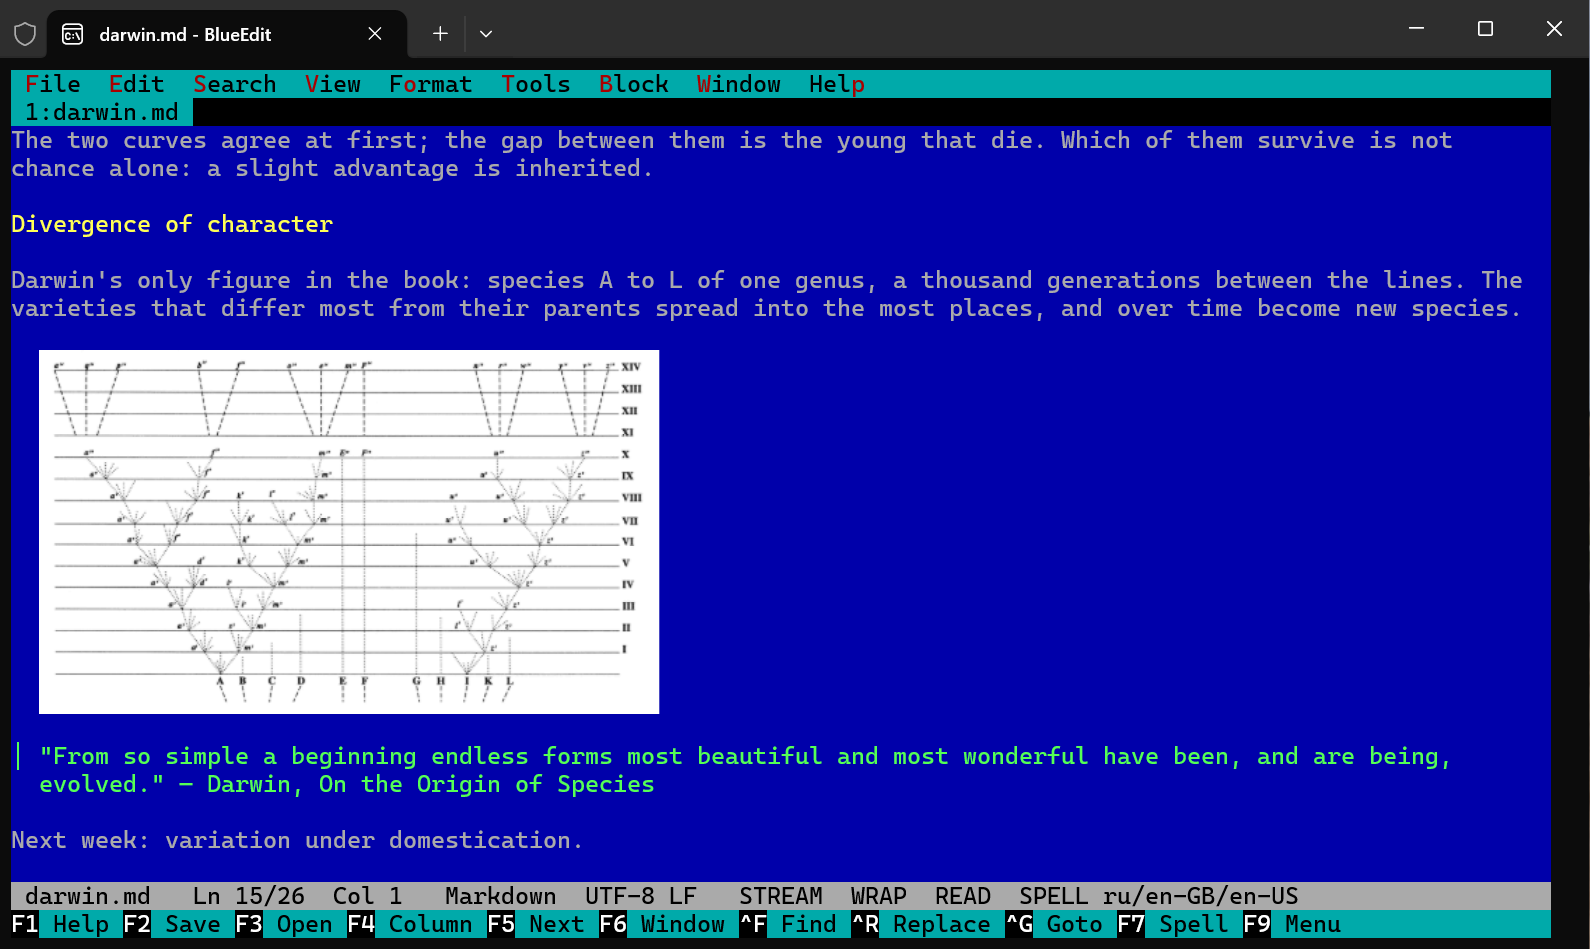
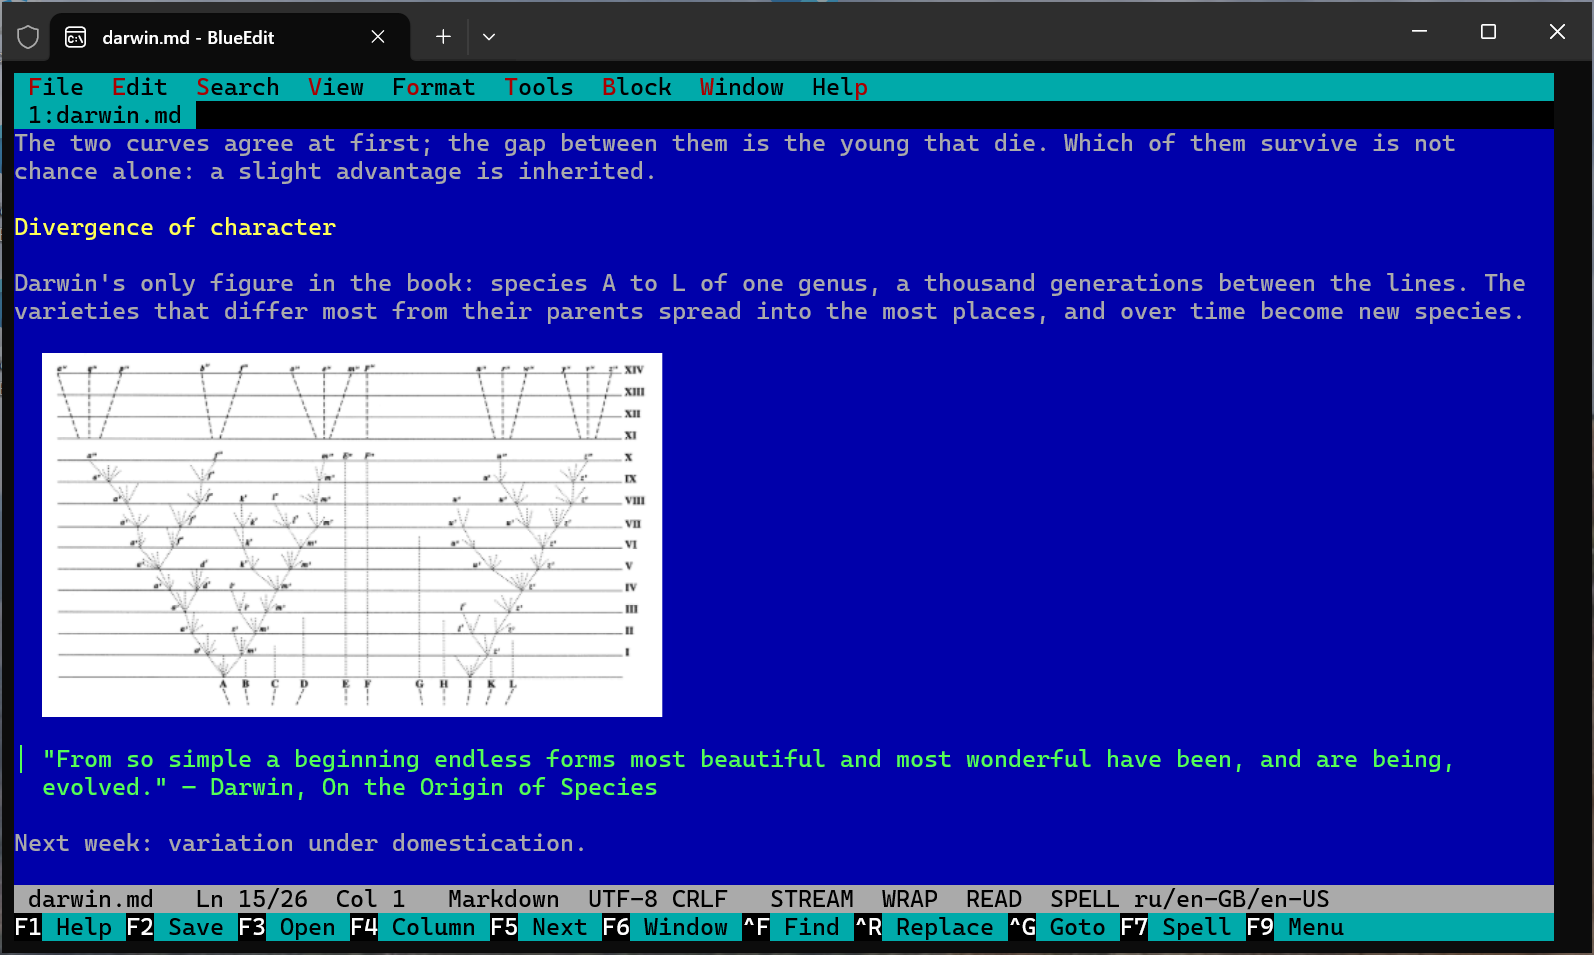
BlueEdit 0.4.6

diff --git a/src/BlueEdit/Settings.cs b/src/BlueEdit/Settings.cs
@@ -20,6 +20,9 @@ sealed class Settings
     public bool AutoWrap { get; set; }
     /// <summary>The words of the text in the status line (Markdown: without markup, formulas and code).</summary>
     public bool WordCount { get; set; }
+    /// <summary>A clock at the right of the menu bar, as in Far: "off", "time" (14:05) or "date" (the system's short
+    /// date and the time).</summary>
+    public string Clock { get; set; } = "time";
     public bool AutoIndent { get; set; } = true;
     /// <summary>Seconds between copies of unsaved documents for recovery after the editor ended unsaved; 0 = none.</summary>
     public int AutoRecoverSeconds { get; set; } = 10;
@@ -41,6 +44,8 @@ sealed class Settings
     public bool FastScroll { get; set; }
     /// <summary>Shortcuts found by the key whatever the layout (#184): Windows key events, elsewhere the kitty protocol.</summary>
     public bool KeyEvents { get; set; } = true;
+    /// <summary>For developers: the status line shows how long the last key took to reach the screen (BLUEEDIT_TIMING=1 too).</summary>
+    public bool ShowTiming { get; set; }
     /// <summary>Esc closes the file (and the editor with the last one) when there is nothing to cancel:
     /// "auto" (default) only when Far Manager opened the editor, "on" always, "off" never.</summary>
     public string EscapeQuits { get; set; } = "auto";
@@ -186,6 +191,11 @@ sealed class Settings
                         break;
                     case "autowrap": if (Bool(v) is bool aw) s.AutoWrap = aw; else Problem("autoWrap: expected true or false"); break;
                     case "wordcount": if (Bool(v) is bool words) s.WordCount = words; else Problem("wordCount: expected true or false"); break;
+                    case "clock":
+                        if (Bool(v) is bool clk) s.Clock = clk ? "time" : "off";
+                        else if (v.ValueKind == JsonValueKind.String && v.GetString()?.ToLowerInvariant() is "off" or "time" or "date") s.Clock = v.GetString()!.ToLowerInvariant();
+                        else Problem("clock: expected \"off\", \"time\" or \"date\"");
+                        break;
                     case "autorecoverseconds":
                         if (v.TryGetInt32(out int ar) && ar is >= 0 and <= 3600) s.AutoRecoverSeconds = ar; else Problem("autoRecoverSeconds: expected a number from 0 to 3600");
                         break;
@@ -243,6 +253,7 @@ sealed class Settings
                         break;
                     case "fastscroll": if (Bool(v) is bool fsc) s.FastScroll = fsc; else Problem("fastScroll: expected true or false"); break;
                     case "keyevents": if (Bool(v) is bool ke) s.KeyEvents = ke; else Problem("keyEvents: expected true or false"); break;
+                    case "showtiming": if (Bool(v) is bool st) s.ShowTiming = st; else Problem("showTiming: expected true or false"); break;
                     case "escapequits":
                         if (Bool(v) is bool eq) s.EscapeQuits = eq ? "on" : "off";
                         else if (v.ValueKind == JsonValueKind.String && v.GetString()?.ToLowerInvariant() is "auto" or "on" or "off") s.EscapeQuits = v.GetString()!.ToLowerInvariant();
@@ -380,6 +391,9 @@ sealed class Settings
         sb.Append(CultureInfo.InvariantCulture, $"    \"autoWrap\": {Lower(s.AutoWrap)},\n\n");
         sb.Append("    // the number of words in the status line (in Markdown without markup, formulas and code; File > Info has all counts)\n");
         sb.Append(CultureInfo.InvariantCulture, $"    \"wordCount\": {Lower(s.WordCount)},\n\n");
+        sb.Append("    // a clock at the right of the menu bar, as in Far: \"off\", \"time\" (14:05) or \"date\" (the system's short\n");
+        sb.Append("    // date and the time)\n");
+        sb.Append(CultureInfo.InvariantCulture, $"    \"clock\": \"{s.Clock}\",\n\n");
         sb.Append("    // Enter keeps the indentation of the line above, one step deeper after a block's opener (Python's \":\",\n");
         sb.Append("    // \"{\" in C#, JavaScript and other brace languages)\n");
         sb.Append(CultureInfo.InvariantCulture, $"    \"autoIndent\": {Lower(s.AutoIndent)},\n\n");
@@ -406,6 +420,9 @@ sealed class Settings
         sb.Append("    // keys read as key events, elsewhere the kitty keyboard protocol where the terminal has it; false: keys read\n");
         sb.Append("    // as text, as before\n");
         sb.Append(CultureInfo.InvariantCulture, $"    \"keyEvents\": {Lower(s.KeyEvents)},\n\n");
+        sb.Append("    // for developers: the status line shows how long the last key took to reach the screen (handler and drawing\n");
+        sb.Append("    // apart); the speed tests read it\n");
+        sb.Append(CultureInfo.InvariantCulture, $"    \"showTiming\": {Lower(s.ShowTiming)},\n\n");
         sb.Append("    // Esc closes the file (the editor with the last one) once there is nothing left to cancel, as in Far's editor:\n");
         sb.Append("    // \"auto\" only when Far Manager opened it, true always, false never\n");
         sb.Append(CultureInfo.InvariantCulture, $"    \"escapeQuits\": {(s.EscapeQuits switch { "on" => "true", "off" => "false", _ => "\"auto\"" })},\n\n");

diff --git a/tests/BlueEdit.Tests/RepoTextTests.cs b/tests/BlueEdit.Tests/RepoTextTests.cs
@@ -1,0 +1,49 @@
+using System.Diagnostics;
+using System.Runtime.CompilerServices;
+using Xunit;
+
+/// <summary>
+/// No control characters in the repository's text files. A scripted edit (a heredoc, a Python one-liner) turned "\b"
+/// into a backspace and "\n" into a line break inside string literals again and again; a rule
+/// written down did not stop it, so this test does: it runs with every check, locally and in CI.
+/// </summary>
+public class RepoTextTests
+{
+    static string Root([CallerFilePath] string file = "") => Path.GetFullPath(Path.Combine(Path.GetDirectoryName(file)!, "..", ".."));
+
+    static readonly HashSet<string> Binary = new(StringComparer.OrdinalIgnoreCase)
+    {
+        ".png", ".jpg", ".jpeg", ".gif", ".bmp", ".webp", ".ico", ".zip", ".gz", ".exe", ".dll", ".ttf", ".otf", ".woff", ".woff2", ".pdf", ".gguf",
+    };
+
+    [Fact]
+    public void Text_files_have_no_control_characters_but_tab_and_line_breaks()
+    {
+        var psi = new ProcessStartInfo("git", "ls-files -z") { WorkingDirectory = Root(), RedirectStandardOutput = true, UseShellExecute = false };
+        using var git = Process.Start(psi)!;
+        var files = git.StandardOutput.ReadToEnd().Split('\0', StringSplitOptions.RemoveEmptyEntries);
+        git.WaitForExit();
+        Assert.NotEmpty(files);
+        var found = new List<string>();
+        foreach (var rel in files)
+        {
+            if (Binary.Contains(Path.GetExtension(rel))) continue;
+            var path = Path.Combine(Root(), rel);
+            if (!File.Exists(path)) continue;                               // deleted in the working tree
+            var bytes = File.ReadAllBytes(path);
+            if (Array.IndexOf(bytes, (byte)0) >= 0) continue;               // a binary file of another kind
+            int line = 1;
+            for (int i = 0; i < bytes.Length; i++)
+            {
+                byte b = bytes[i];
+                if (b == '\n') line++;
+                else if ((b < 0x20 && b != '\t' && b != '\r') || b == 0x7F)
+                {
+                    found.Add($"{rel}:{line}: 0x{b:X2}");
+                    break;
+                }
+            }
+        }
+        Assert.True(found.Count == 0, "control characters (a broken escape in a scripted edit?):\n" + string.Join("\n", found));
+    }
+}

diff --git a/src/BlueEdit/App.Settings.cs b/src/BlueEdit/App.Settings.cs
@@ -20,6 +20,7 @@ sealed partial class App
         editor.WrapProse = s.WrapProse;
         editor.WrapCode = s.WrapCode;
         editor.LineNumbersOn = s.LineNumbers;
+        editor.ShowTiming = s.ShowTiming || Environment.GetEnvironmentVariable("BLUEEDIT_TIMING") == "1";
         editor.DefaultMdView = s.MarkdownView switch { "source" => MdView.Source, "reading" => MdView.Reading, _ => MdView.Live };
         var langs = SpellLanguagesFor(s);
         var provider = !OperatingSystem.IsWindows() || s.SpellProvider == "hunspell" ? "Hunspell"
@@ -259,6 +260,15 @@ sealed partial class App
             : Tf("Images on, but not shown: {0}", ImagesMissing()));
     }
 
+    // View > Clock goes round off, time, date and time; kept in the settings, as the Tools > Settings row is
+    void CycleClock()
+    {
+        var next = settings.Clock switch { "off" => "time", "time" => "date", _ => "off" };
+        Settings.SetValue(Settings.FilePath, "clock", $"\"{next}\"");
+        ReloadSettings();
+        Note(next switch { "time" => T("Clock: the time"), "date" => T("Clock: the date and the time"), _ => T("Clock off") });
+    }
+
     void ToggleAutoWrap()
     {
         Settings.SetValue(Settings.FilePath, "autoWrap", settings.AutoWrap ? "false" : "true");
@@ -308,6 +318,8 @@ sealed partial class App
             ("Completion while typing", "completeWhileTyping", ["code", "always", "off"], ["\"code\"", "\"always\"", "\"off\""], s.CompleteWhileTyping,
                 "The completion list opens by itself after three letters (Ctrl+Space always opens it)."),
             ("Word count", "wordCount", ["on", "off"], ["true", "false"], On(s.WordCount), "The number of words in the status line."),
+            ("Clock", "clock", ["off", "time", "date"], ["\"off\"", "\"time\"", "\"date\""], s.Clock,
+                "At the right of the menu bar, as in Far: the time, or the date and the time."),
             ("Language servers", "lsp", ["on", "off"], ["true", "false"], On(s.Lsp), "Errors and warnings in code, from the language's server."),
             ("Esc closes the file", "escapeQuits", ["auto", "on", "off"], ["\"auto\"", "\"on\"", "\"off\""], s.EscapeQuits,
                 "Auto: only when Far Manager opened the editor, as Far's own editor does. Esc in the settings file always goes back."),

diff --git a/src/BlueEdit/App.Menus.cs b/src/BlueEdit/App.Menus.cs
@@ -118,7 +118,7 @@ sealed partial class App
                 new MenuItem(T("Theme: _DOS blue"), "", () => SetTheme("dos-blue")) { On = () => settings.Theme is not ("dark" or "light"), Choice = true },
                 new MenuItem(T("Theme: dar_k"), "", () => SetTheme("dark")) { On = () => settings.Theme == "dark", Choice = true },
                 new MenuItem(T("Theme: lig_ht"), "", () => SetTheme("light")) { On = () => settings.Theme == "light", Choice = true },
-                new MenuItem(T("Show t_iming"), "", () => editor.ShowTiming = !editor.ShowTiming) { On = () => editor.ShowTiming },
+                new MenuItem(T("_Clock"), "", CycleClock) { On = () => settings.Clock != "off", Value = () => settings.Clock == "off" ? "" : T(settings.Clock) },
             }),
             new Menu(T("F_ormat"), new[]
             {
@@ -178,7 +178,10 @@ sealed partial class App
                 new MenuItem(T("_About"), "", About),
             }),
         })
-        { Opened = ProofingTools.LookForVideoCard };     // so that Tools > Set up grammar checking finds the answer ready
+        {
+            Opened = ProofingTools.LookForVideoCard,     // so that Tools > Set up grammar checking finds the answer ready
+            Right = ClockText,
+        };
         app.Menu = buildMenu();
     }
 

diff --git a/src/BlueEdit/App.Status.cs b/src/BlueEdit/App.Status.cs
@@ -15,6 +15,19 @@ sealed partial class App
         return wordsShown < 0 ? "" : $"  {wordsShown} {Ui.Tc("status", "w")}";
     }
 
+    // the clock at the right of the menu bar (setting clock): drawn with every frame, so it follows the minute without a
+    // timer of its own; only the cells that changed go to the terminal
+    string ClockText()
+    {
+        var now = DateTime.Now;
+        return settings.Clock switch
+        {
+            "time" => now.ToString("HH:mm", System.Globalization.CultureInfo.InvariantCulture),
+            "date" => now.ToString("d", System.Globalization.CultureInfo.CurrentCulture) + " " + now.ToString("HH:mm", System.Globalization.CultureInfo.InvariantCulture),
+            _ => "",
+        };
+    }
+
     string StatusText() =>
         $" {NameOf(editor.Path)}{(editor.Modified ? " *" : "")}   {Ui.Tc("status", "Ln")} {editor.Row + 1}/{editor.Lines.Count}  {Ui.Tc("status", "Col")} {editor.Col + 1}{(signature != null ? "  " + signature : "")}{(note != "" ? "  [" + note + "]" : "")}" +
         $"   {editor.LangName}  {editor.FileFormat}   {(editor.ColumnMode ? Ui.Tc("status", "COLUMN") : Ui.Tc("status", "STREAM"))}{(editor.WrapOn ? "  " + Ui.Tc("status", "WRAP") : "")}{(editor.AutoWrap ? "  " + Ui.Tc("status", "AUTOWRAP") : "")}{Words()}" +

diff --git a/tests/BlueEdit.Tests/SettingsTests.cs b/tests/BlueEdit.Tests/SettingsTests.cs
@@ -43,6 +43,27 @@ public sealed class SettingsTests : IDisposable
     }
 
     [Fact]
+    public void Clock_shows_the_time_by_default_and_reads_off_date_or_a_boolean()
+    {
+        Assert.Equal("time", new Settings().Clock);
+        Assert.Equal("off", Settings.Parse(Settings.Template(new Settings { Clock = "off" })).Settings.Clock);
+        Assert.Equal("date", Settings.Parse(Settings.Template(new Settings { Clock = "date" })).Settings.Clock);
+        Assert.Equal("time", Settings.Parse("""{ "clock": true }""").Settings.Clock);
+        Assert.Equal("off", Settings.Parse("""{ "clock": false }""").Settings.Clock);
+        Assert.NotNull(Settings.Parse("""{ "clock": "seconds" }""").Error);
+    }
+
+    [Fact]
+    public void Timing_is_a_setting_for_developers_off_by_default()
+    {
+        Assert.False(new Settings().ShowTiming);
+        var (s, error) = Settings.Parse(Settings.Template(new Settings { ShowTiming = true }));
+        Assert.Null(error);
+        Assert.True(s.ShowTiming);
+        Assert.NotNull(Settings.Parse("""{ "showTiming": "yes" }""").Error);
+    }
+
+    [Fact]
     public void Spell_languages_switch_between_auto_and_a_list_in_the_file()
     {
         Settings.SetValue(FilePath, "spellLanguages", "[\"ru-RU\", \"en-GB\"]");

diff --git a/tests/ui/test_settings.py b/tests/ui/test_settings.py
@@ -68,6 +68,18 @@ def test_options_from_the_file_are_used_at_start(editor, make_file):
     assert t.body()[0].startswith("  # Title")
 
 
+def test_the_clock_is_at_the_right_of_the_menu_bar_and_view_clock_goes_round_and_is_kept(editor, make_file):
+    t = editor(make_file("c.txt", "x\n"))
+    bar = t.rows()[0]
+    assert re.search(r"\b\d\d:\d\d$", bar), bar                  # on by default: the time
+    assert t.cols_n - len(bar) == 1                               # one blank column after it, as before the menus
+    t.send(alt("v"), 0.5); t.send("c", 1.0)                       # View > Clock: the date and the time
+    assert re.search(r"\S+ \d\d:\d\d$", t.rows()[0]) and '"clock": "date"' in open(settings_path(), encoding="utf-8").read()
+    t.send(alt("v"), 0.5); t.send("c", 1.0)                       # off
+    assert not re.search(r"\d\d:\d\d$", t.rows()[0])
+    assert '"clock": "off"' in open(settings_path(), encoding="utf-8").read()
+
+
 def test_a_broken_setting_is_reported_and_the_rest_still_applies(editor, make_file):
     write_settings('{ "tabSize": 99, "theme": "dark" }')
     t = editor(make_file("a.txt", "x\n"))

diff --git a/tests/Tui.Tests/WidgetTests.cs b/tests/Tui.Tests/WidgetTests.cs
@@ -389,6 +389,26 @@ public class MenuBarValidationTests
     }
 
     [Fact]
+    public void The_right_text_ends_the_bar_and_is_left_out_where_the_menus_reach_it()
+    {
+        string clock = "14:05";
+        var bar = new MenuBar(new[] { new Menu("_File", new[] { new MenuItem("_New", "", () => { }) }) }) { Right = () => clock };
+        static string Row(Screen s) => new(Enumerable.Range(0, s.Width).Select(x => s.CharAt(x, 0)).ToArray());
+
+        var wide = new Screen(20, 2);
+        bar.DrawBar(wide, new Theme());
+        Assert.Equal(" File         14:05 ", Row(wide));
+
+        var narrow = new Screen(10, 2);
+        bar.DrawBar(narrow, new Theme());
+        Assert.Equal(" File     ", Row(narrow));
+
+        clock = "";
+        bar.DrawBar(wide, new Theme());
+        Assert.Equal(" File               ", Row(wide));
+    }
+
+    [Fact]
     public void Duplicate_menu_hotkeys_on_the_bar_are_rejected() =>
         Assert.Throws<ArgumentException>(() => new MenuBar(new[]
         {

diff --git a/src/Tui/MenuBar.cs b/src/Tui/MenuBar.cs
@@ -55,6 +55,9 @@ public sealed class MenuBar
     /// background, what an item may need.</summary>
     public Action? Opened { get; init; }
 
+    /// <summary>Text at the right end of the bar (a clock), asked for with every frame; left out when the menus reach it.</summary>
+    public Func<string>? Right { get; init; }
+
     public static char HotkeyOf(string label)
     {
         int i = label.IndexOf('_', StringComparison.Ordinal);
@@ -159,6 +162,8 @@ public sealed class MenuBar
             DrawLabel(s, x, 0, m.Label, sel ? t.BarSelected : t.Bar, sel ? t.BarSelected : t.BarHotkey);
             x += m.Text.Length + 2;
         }
+        if (Right?.Invoke() is { Length: > 0 } right && s.Width - right.Length - 1 >= x)
+            s.Text(s.Width - right.Length - 1, 0, right, t.Bar);
     }
 
     Rect DropDownRect()

diff --git a/tests/ui/test_wrap_menu_help.py b/tests/ui/test_wrap_menu_help.py
@@ -1,3 +1,4 @@
+import re
 import time
 
 import pytest
@@ -108,7 +109,8 @@ def test_every_way_into_the_menu(editor, make_file, keys, expected):
 def test_menu_bar_order(editor, make_file):
     t = editor(make_file("a.txt", "x\n"))
     bar = t.rows()[0].split()
-    assert bar == ["File", "Edit", "Search", "View", "Format", "Tools", "Block", "Window", "Help"]
+    assert bar[:9] == ["File", "Edit", "Search", "View", "Format", "Tools", "Block", "Window", "Help"]
+    assert len(bar) == 10 and re.fullmatch(r"\d\d:\d\d", bar[9])   # the clock, on by default
 
 
 def test_mouse_opens_a_menu(editor, make_file):

diff --git a/src/BlueEdit/App.cs b/src/BlueEdit/App.cs
@@ -158,7 +158,6 @@ sealed partial class App : IDisposable
         };
         // the window's title names the file, as Notepad does; the console's own title is put back on exit (ConsoleHost)
         app.Title = () => $"{NameOf(editor.Path)}{(editor.Modified ? " *" : "")} - BlueEdit";
-        editor.ShowTiming = Environment.GetEnvironmentVariable("BLUEEDIT_TIMING") == "1";
     }
 
     public void Dispose() => host.Dispose();
